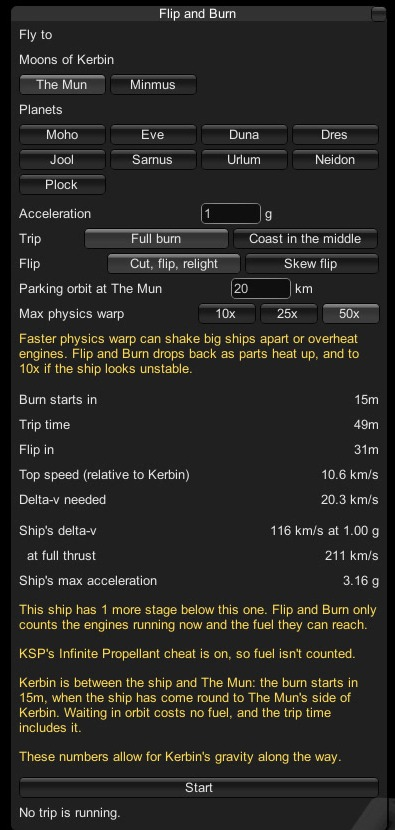
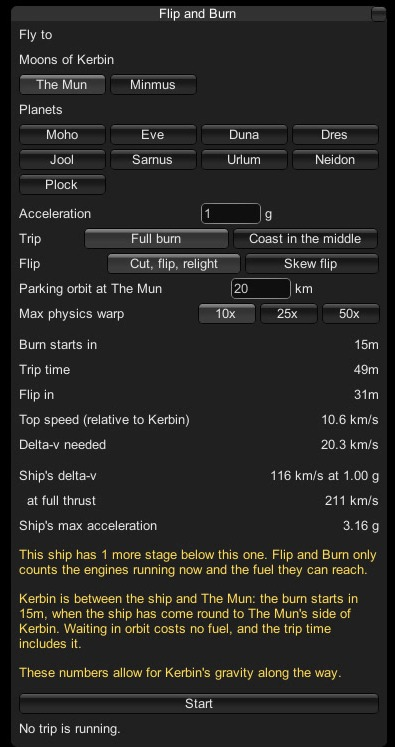
Cycle 14 review: real-heat moon trip, wording fixes, 10x planner picture
The Bebop from its Kerbin orbit to the Mun at 1 g with no cheats (fuel
counted, real heat): stepped down three times (0.76, 0.60, 0.48 g),
each re-planned and told, and arrived in a 20.0 x 20.0 km orbit, 59 min
against 49 planned. Test step moonheat records it (not pass or fail).

Fixes: 'Pick where to fly to.'; the windows page says 'The Mun's
planet' as the screen does; Kerbin to the Mun is about 35 minutes of
flying plus the wait (49 minutes in the test); the Moon trips picture
retaken with 10x selected and no cheat note.

diff --git a/src/FlipAndBurn.TestHarness/TestHarness.Moons.cs b/src/FlipAndBurn.TestHarness/TestHarness.Moons.cs
@@ -3,6 +3,7 @@ using System.Collections;
 using System.Collections.Generic;
 using System.Linq;
 using FlipAndBurn.Core.Guidance;
+using MuMech;
 using UnityEngine;
 
 namespace FlipAndBurn.TestHarness
@@ -67,6 +68,88 @@ namespace FlipAndBurn.TestHarness
 
             Log(string.IsNullOrEmpty(only) ? "moon trips: ALL THREE ARRIVED CLEANLY" : $"moon trips: {only} ARRIVED CLEANLY");
         }
+
+        // The Bebop from its Kerbin orbit to the Mun at 1 g, full burn, with real heat: fuel counted, no cheats, the planner's
+        // warp choice at its default (10x, put back afterwards). Not a pass or fail: what happens is recorded (does it arrive,
+        // step down, or stop, and where does the ship end up). Only when asked: "moonheat".
+        private IEnumerator ProofMoonHeat()
+        {
+            var f = new Flown();
+            yield return PlanOnShip(ResumeShip, null, null, f, SaveFile);
+            if (!f.Ok) yield break;
+            MechJebModuleFlipAndBurn module = f.Module;
+            CheatOptions.InfinitePropellant = false;
+            CheatOptions.IgnoreMaxTemperature = false;
+            MechJebModuleFlipAndBurnAutopilot.TestMaxPhysicsRate = double.NaN;   // the player's choice
+            int warpBefore = module.PhysicsWarpIndex;
+            module.PhysicsWarpIndex = 0;
+            if (!module.SelectTarget("Mun")) { Fail("moon heat", "could not select the Mun"); failed = true; yield break; }
+            module.FlipStyleIndex = 0;
+            module.AccelerationG.Val = 1.0;
+            module.SelectTripType(TripType.FullBurn);
+            yield return new WaitForSecondsRealtime(SettleSeconds);
+            module.Replan();
+            yield return new WaitForSecondsRealtime(2f);
+            Planner planner = module.Planner;
+            Log($"moon heat: no cheats (infinite propellant {CheatOptions.InfinitePropellant}, ignore max temperature {CheatOptions.IgnoreMaxTemperature}); " +
+                $"max physics warp choice {PhysicsWarpChoice.Names[module.PhysicsWarpIndex]} (was {PhysicsWarpChoice.Names[PhysicsWarpChoice.Clamp(warpBefore)]}); " +
+                $"planner can start {planner.CanStart}");
+            foreach (KeyValuePair<string, string> row in planner.TripRows.Concat(planner.ShipRows)) Log($"moon heat: planner row {row.Key}: {row.Value}");
+            foreach (string note in planner.Notes) Log("moon heat: planner note: " + note);
+            HideMechJebMenu(f);
+            Frame(f.Ship, 0.30f, 0.9f, 1.4f);
+            yield return Shot("moon-heat-1-planner.png", f);
+
+            string problem = planner.CanStart ? module.PressStart() : "the planner won't start";
+            if (problem != null)
+            {
+                Log("moon heat: Start refused: " + problem + " | " + string.Join(" | ", planner.Notes));
+                yield return EndMoonHeat(f, module, warpBefore);
+                yield break;
+            }
+
+            MechJebModuleFlipAndBurnAutopilot pilot = module.Autopilot;
+            LogPlan(pilot);
+            statusEvery = 30f;
+            int replans = 0, shots = 0;
+            double startUT = Planetarium.GetUniversalTime();
+            float t0 = Time.realtimeSinceStartup;
+            while (pilot.Running && Time.realtimeSinceStartup - t0 < 45 * 60)
+            {
+                if (pilot.Replans != replans)
+                {
+                    replans = pilot.Replans;
+                    GuidanceCommand c = pilot.Last;
+                    Log($"moon heat: step-down {replans} at {Planetarium.GetUniversalTime() - startUT:F0} s into the trip: now {pilot.CurrentAcceleration / 9.81:F2} g; " +
+                        $"phase {c?.Phase}; altitude {f.Ship.altitude / 1000:F0} km above {f.Ship.mainBody.bodyName}; hottest part {HottestFraction(f.Ship) * 100:F0}%; notice: {pilot.Notice}");
+                    if (shots++ < 2) yield return Shot($"moon-heat-2-step-down-{replans}.png", f);
+                }
+
+                yield return Fly(pilot, () => pilot.Replans != replans, 5, "moon heat");
+                yield return new WaitForFixedUpdate();
+            }
+
+            Log($"moon heat: trip over after {Planetarium.GetUniversalTime() - startUT:F0} game s: running {pilot.Running}, arrived {pilot.Arrived}, " +
+                $"step-downs {pilot.Replans}, acceleration at the end {pilot.CurrentAcceleration / 9.81:F2} g; stop reason: {pilot.StopReason}");
+            yield return EndMoonHeat(f, module, warpBefore);
+        }
+
+        private IEnumerator EndMoonHeat(Flown f, MechJebModuleFlipAndBurn module, int warpBefore)
+        {
+            Vessel v = f.Ship;
+            Orbit o = v.orbit;
+            Log($"moon heat: the ship ends up {v.situation} around {v.mainBody.bodyName}: periapsis {o.PeA / 1000:F1} km, apoapsis {o.ApA / 1000:F1} km, " +
+                $"eccentricity {o.eccentricity:F4}; LqdDeuterium {v.parts.Sum(p => p.Resources.Get("LqdDeuterium")?.amount ?? 0):F0} units");
+            yield return new WaitForSecondsRealtime(2f);
+            yield return Shot("moon-heat-3-end.png", f);
+            yield return MapShot(f, "moon-heat-4-map.png");
+            module.PhysicsWarpIndex = warpBefore;
+            Log($"moon heat: max physics warp choice put back to {PhysicsWarpChoice.Names[PhysicsWarpChoice.Clamp(warpBefore)]}");
+            step++;
+        }
+
+        private static double HottestFraction(Vessel v) => v.parts.Count == 0 ? 0
+            : v.parts.Max(p => Math.Max(p.maxTemp > 0 ? p.temperature / p.maxTemp : 0, p.skinMaxTemp > 0 ? p.skinTemperature / p.skinMaxTemp : 0));
 
         /// <summary>The coast trip's delta-v (m/s): about half a full burn's to Minmus at 1 g (44 km/s), so it has to coast.</summary>
         private const double CoastDeltaV = 25_000;

diff --git a/src/FlipAndBurn.TestHarness/TestHarness.cs b/src/FlipAndBurn.TestHarness/TestHarness.cs
@@ -192,6 +192,13 @@ namespace FlipAndBurn.TestHarness
                 if (failed) yield break;
             }
 
+            // Cycle 14 review: the Bebop to the Mun with real heat (only when asked: "moonheat").
+            if ((wanted ?? "").Split(',').Contains("moonheat"))
+            {
+                yield return ProofMoonHeat();
+                if (failed) yield break;
+            }
+
             // Cycle 14: trips among Kerbin's moons, back to back (only when asked: "moontrips").
             if ((wanted ?? "").Split(',').Contains("moontrips"))
             {

diff --git a/src/FlipAndBurn/Planner.cs b/src/FlipAndBurn/Planner.cs
@@ -211,7 +211,7 @@ namespace FlipAndBurn
 
             if (Target == null)
             {
-                Notes.Insert(0, "Pick a planet to fly to.");
+                Notes.Insert(0, "Pick where to fly to.");
                 return;
             }
 

diff --git a/docs/test-evidence/cycle-14-moon-trips.md b/docs/test-evidence/cycle-14-moon-trips.md
@@ -2,7 +2,7 @@
 
 Kris's KSP 1.12.5 install, test copy of his saves only (`saves/FlipAndBurn-Test`), the Bebop Refueller starting in
 orbit around Kerbin. The lines below are copied from KSP.log as the test helper wrote them (`moontrips`, 2026-11-04).
-After each launch the run's own check found MechJeb's settings, BetterTimeWarp's and KSP's settings.cfg identical to
+After each of the three launches the run's own check found MechJeb's settings, BetterTimeWarp's and KSP's settings.cfg identical to
 before, and no file in any other save changed.
 
 ## The first launch: to the Mun, back to Kerbin, on to Minmus
@@ -71,6 +71,29 @@ trip M3: ARRIVED CLEANLY (engine off True)
 ```
 
 It kept more than the 10 % reserve (14.1 % left), and made one course correction on the way.
+
+## The third launch: the Bebop to the Mun with real heat
+
+The trip a player flies first: the Bebop from its Kerbin orbit to the Mun at 1 g, full burn, **fuel counted and no
+cheats**. The planner's warp choice was set to its default, 10x, for the run and put back afterwards. The Bebop's orbit in
+the test copy is about 740 km up, where the least acceleration that can leave Kerbin is about 0.22 g (from an 80 km orbit
+it is 0.86 g).
+
+Before Start the planner offered the trip: it can't know a drive will overheat until it runs. In flight the heat guard
+stepped the trip down three times, each time re-planning the rest and saying so on screen, and the trip arrived:
+
+```
+moon heat: step-down 1 at 1093 s into the trip: now 0.76 g; phase Accelerate; altitude 815 km above Kerbin; hottest part 28%; notice: The engines couldn't safely hold 1.00 g: the ship is overheating (waste heat at 97%; KSP Interstellar drives lose thrust above 90%). Flip and Burn is now holding 0.76 g and has re-planned the rest of the trip: arrival is 4m later (35m from now).
+moon heat: step-down 2 at 1632 s into the trip: now 0.60 g; phase Accelerate; altitude 2713 km above Kerbin; hottest part 90%; notice: The engines couldn't safely hold 0.76 g: "Rocinante" Kerbstein Fusion Drive reached 90% of its temperature limit. Flip and Burn is now holding 0.60 g and has re-planned the rest of the trip: arrival is 2m later (28m from now).
+moon heat: step-down 3 at 1692 s into the trip: now 0.48 g; phase Accelerate; altitude 3090 km above Kerbin; hottest part 90%; notice: The engines couldn't safely hold 0.60 g: "Rocinante" Kerbstein Fusion Drive reached 90% of its temperature limit. Flip and Burn is now holding 0.48 g and has re-planned the rest of the trip: arrival is 2m later (30m from now).
+moon heat: trip over after 3561 game s: running False, arrived True, step-downs 3, acceleration at the end 0.48 g; stop reason: Arrived at The Mun: in a 20.0 × 20.0 km orbit (planned: 20 km, circular). The trip took 59m, 10m longer than planned at Start (49m). It used 14.3 km/s of delta-v and has 68.6 km/s left, 59.1% of the 116 km/s it started with.
+moon heat: the ship ends up ORBITING around Mun: periapsis 20.0 km, apoapsis 20.0 km, eccentricity 0.0002
+```
+
+The first step-down came about 2.5 minutes into the burn (after the 15-minute wait for the window). From then on the
+braking ran at normal speed: the drive stayed near its heat limit, where the heat rules hold time warp off. Pictures:
+`moon-heat-1-planner.jpg` (the planner before Start: 10x, no cheats), `moon-heat-2-step-down-1.jpg` and `-2`,
+`moon-heat-3-end.jpg`, `moon-heat-4-map.jpg`.
 
 ## Pictures
 

diff --git a/docs/adr/0005-moon-trips.md b/docs/adr/0005-moon-trips.md
@@ -155,7 +155,7 @@ re-tuned when it ends (above), and the skew flip keeps thrusting through it as b
 
 ### What the planner and the windows show
 
-- **Fly to:** grouped. "Moons of Kerbin" and "Planets" from a planet's orbit; "Mun's planet" and "Other moons of Kerbin"
+- **Fly to:** grouped. "Moons of Kerbin" and "Planets" from a planet's orbit; "The Mun's planet" and "Other moons of Kerbin"
   from the Mun, with the note about other planets.
 - **New rows:** "Burn starts in", when the trip waits for its window, in the planner and the trip window.
 - **New notes:**
@@ -207,7 +207,11 @@ Test copy of Kris's saves, the Bebop Refueller (`docs/test-evidence/cycle-14-moo
 | The Mun back to Kerbin, full burn at 1 g, skew flip (waited 22 min) | 79.80 × 80.14 km, planned 80 | +18 s (+0.5 %) |
 | Kerbin to Minmus, coast trip at 1 g, fuel counted (lowered to 25 km/s so it had to coast) | 19.69 × 20.01 km, planned 20 | +21 s (+0.4 %), 14.1 % of the delta-v left |
 
-The first two flew back to back in one launch, the coast trip in a second. In all three:
+The first two flew back to back in one launch, the coast trip in a second. All three used the "ignore max temperature"
+cheat (the Bebop's drive holds about 0.45 g cool). A third launch flew the Bebop from its Kerbin orbit (about 740 km up)
+to the Mun at 1 g with no cheats at all: the heat guard stepped it down three times (to 0.76, 0.60 and 0.48 g, the first
+about 2.5 minutes into the burn, at 815 km), each with a re-plan and a message, and it arrived in a 20.0 × 20.0 km orbit,
+59 minutes against 49 planned. In all three:
 - the engine was off at arrival, and time warp was back to normal before the last burn;
 - MechJeb's settings came back identical apart from window sizes;
 - the engine was at zero whenever the ship pointed more than 5° off (outside the skew flip).

diff --git a/docs/ways-to-fly.md b/docs/ways-to-fly.md
@@ -124,7 +124,8 @@ that planet first, then on to its moon.
   <img src="images/moon-trips-planner.jpg" alt="The planner in Kerbin orbit with the Mun picked: Moons of Kerbin above Planets in the Fly to list, Burn starts in 15m, and notes saying Kerbin is between the ship and the Mun and that the numbers allow for Kerbin's gravity" width="40%">
 </p>
 
-Moon trips are short (Kerbin to the Mun takes about 40 minutes at 1 g), and close to the planet its gravity is strong.
+Moon trips are short (Kerbin to the Mun at 1 g is about 35 minutes of flying, plus up to one orbit of waiting for the
+window: 49 minutes in all in the test), and close to the planet its gravity is strong.
 Flip and Burn allows for it, and the planner's numbers include it. A few things work a little differently:
 - **Waiting to leave.** If the planet (or the moon you're leaving) is between you and the target, the ship waits in its
   orbit, engine off, until it comes round to the target's side. The planner shows **Burn starts in**, and the trip

diff --git a/docs/windows.md b/docs/windows.md
@@ -21,7 +21,7 @@ Open it from MechJeb's menu (the **MechJeb** tab, on the right edge of the scree
    Click one to plan a trip to it.
    - **From a planet's orbit:** "Moons of Kerbin" (that planet's moons), then "Planets" (every other planet in your
      game that orbits the Sun).
-   - **From a moon:** "Mun's planet" (the planet it orbits), then "Other moons of Kerbin", with a line saying how to get
+   - **From a moon:** "The Mun's planet" (the planet it orbits), then "Other moons of Kerbin", with a line saying how to get
      to other planets.
 2. **Acceleration:** how hard to push, in g. 1 g is the default. See [choosing an acceleration](ways-to-fly.md#choosing-an-acceleration).
 3. **Trip:** **Full burn** (burn the whole way) or **Coast in the middle** (burn, coast, burn). See

diff --git a/README.md b/README.md
@@ -50,7 +50,7 @@ what make trips like these practical. Stock engines work too, mostly on coast tr
 1. Download `FlipAndBurn-1.1.0.zip` from the [releases page](https://github.com/kbennett2000/flip-and-burn/releases), and
    copy the `FlipAndBurn` folder from inside it into your KSP `GameData` folder ([step by step](docs/installing.md)).
 2. In orbit around a planet, open MechJeb's menu and click **Flip and Burn**.
-3. Pick a planet, check the plan, and press **Start**.
+3. Pick a planet or a moon, check the plan, and press **Start**.
 
 The [first trip walkthrough](docs/first-trip.md) goes through it step by step, from Kerbin orbit to parked at Duna.
 
